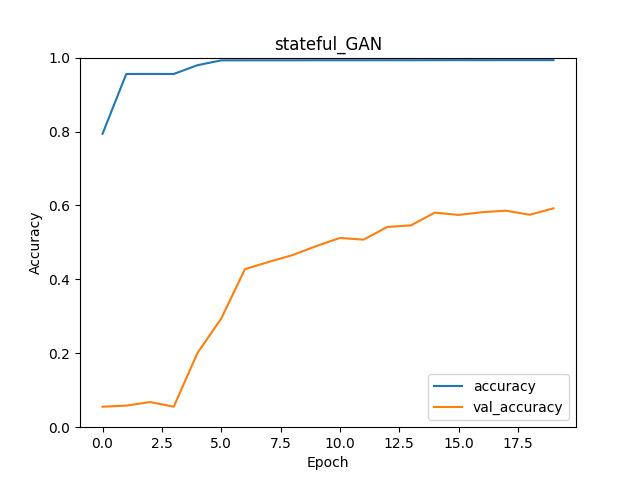
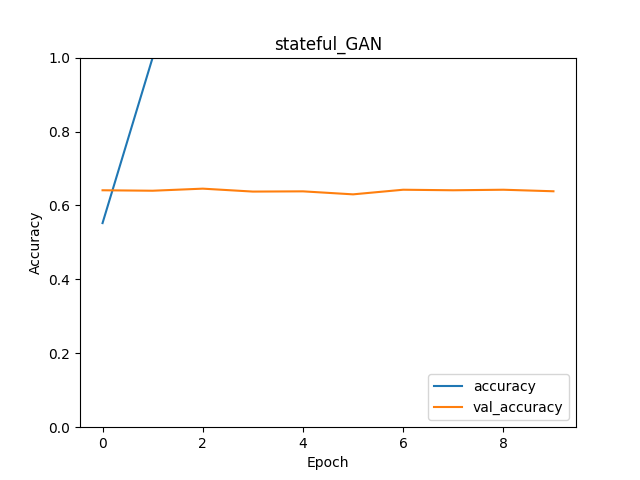
hard sigmoid broke stateful gan---reverted

diff --git a/src/networks/classifiers/binaryCasasClassifier.py b/src/networks/classifiers/binaryCasasClassifier.py
@@ -2,38 +2,34 @@
 import tensorflow as tf
 from tensorflow import keras
 from tensorflow.keras import layers as l
-from pathlib import Path
-import pandas as pd
-import glob
 import numpy as np
 import os
 
-from processData.binaryCasasProcess import binaryCasasData as bcData
+from processData.binaryCasasProcess import binaryCasasData as bcData, postProcess as pp
 from names import binaryCasasNames as bcNames
 from networks import commonBlocks as cBlocks, defaults
 from utils import common, globalVars as gv
-from processData import windowsGenerator as wg
-from networks.gans import stateFulGan as sfg
-from networks.gans import genApi, wgan
+from networks.gans import stateFulGan as sfg, genApi
 import matplotlib.pyplot as plt
-from processData.binaryCasasProcess import postProcess as pp
 
-BATCH_SIZE = 64
+BATCH_SIZE = sfg.BATCH_SIZE
 N_TIME_STEPS = 16
-EPOCHS = 20
+EPOCHS = 10
 PATH_ASSETS = os.getcwd()
+STEPS_PER_EPOCH = 250
 
 def run():
     # trtr("CNN_on_real")
 
-
     # loadGan = True
     loadGan = False
     gan = sfg.get_gan(loadGan)
-    gan = sfg.run_gan(gan, 20)
+    gan = sfg.run_gan(gan, 10)
 
     genOut = []
-    for sampleNum in range(5000):
+    for sampleNum in range(1000):
+        if sampleNum % 500 == 0:
+            print("On sample num {} with batch size {}".format(sampleNum, BATCH_SIZE))
         genOut.append(genApi.get_gen_out(gan.generator, sfg.NOISE_DIM, batchSize=sfg.BATCH_SIZE))
 
     #np.ndarray in shape (samples, time steps, features)
@@ -41,7 +37,8 @@ def run():
     genOut = pp.gen_out_to_real_normalized(genOut)
 
     x,y = genOut[...,:bcNames.nFeatures], genOut[...,-1,bcNames.nFeatures:]
-    print(x.shape, y.shape)
+    print("X and Y shapes:", x.shape, y.shape)
+    print("Doing TSTR")
     tstr(x, y, "stateful_GAN")
 
 def tstr(x, y, title): 
@@ -50,7 +47,7 @@ def tstr(x, y, title):
         xyPivot=bcNames.pivots.activities.start, firstN=gv.DATA_AMT
     )
     model = basic_cnn()
-    history = model.fit(x, y, epochs=EPOCHS, steps_per_epoch = defaults.STEPS_PER_EPOCH,
+    history = model.fit(x, y, epochs=EPOCHS, steps_per_epoch = STEPS_PER_EPOCH,
                         validation_data=allHomes[0].data.test.gen, validation_steps=defaults.VALIDATION_STEPS)
     test_result_0 = model.evaluate(allHomes[0].data.test.gen, steps=defaults.VALIDATION_STEPS, verbose=2)
     test_result_1 = model.evaluate(allHomes[1].data.test.gen, steps=defaults.VALIDATION_STEPS, verbose=2)
@@ -75,7 +72,7 @@ def trtr(title):
         xyPivot=bcNames.pivots.activities.start, firstN=gv.DATA_AMT
     )
     model = basic_cnn()
-    history = model.fit(allHomes[0].data.train.gen, epochs=EPOCHS, steps_per_epoch = defaults.STEPS_PER_EPOCH,
+    history = model.fit(allHomes[0].data.train.gen, epochs=EPOCHS, steps_per_epoch = STEPS_PER_EPOCH,
                         validation_data=allHomes[0].data.test.gen, validation_steps=defaults.VALIDATION_STEPS)
     test_result_0 = model.evaluate(allHomes[0].data.test.gen, steps=defaults.VALIDATION_STEPS, verbose=2)
     test_result_1 = model.evaluate(allHomes[1].data.test.gen, steps=defaults.VALIDATION_STEPS, verbose=2)
@@ -108,4 +105,6 @@ def basic_cnn() -> keras.models.Model:
     return model
 
 if __name__ == "__main__":
+    if gv.DEBUG:
+        common.enable_tf_debug()
     run()

diff --git a/src/networks/gans/stateFulGan.py b/src/networks/gans/stateFulGan.py
@@ -28,10 +28,9 @@ NOISE_DIM = 128
 BATCH_SIZE = 32
 STEPS_PER_EPOCH = 1000
 
+NEPOCHS = 2 if gv.DEBUG else 10
 NPREV_EPOCHS_DONE = 0
-# NPREV_EPOCHS_DONE = 12
-NEPOCHS = 2 if gv.DEBUG else 25
-# NEPOCHS = 0
+# NPREV_EPOCHS_DONE = NEPOCHS
 
 def get_conv_generator() -> keras.models.Model:
     #goal: 16 X 48
@@ -86,11 +85,12 @@ def get_lstm_generator(batchSize=BATCH_SIZE) -> keras.models.Model:
             return_sequences=True
         )
     )(x)
-    time = layers.Dense(1, keras.activations.hard_sigmoid)(x)
+    # time = layers.Dense(1, keras.activations.hard_sigmoid)(x)
+    time = layers.Dense(1, keras.activations.sigmoid)(x)
     signal = layers.Dense(1, keras.activations.sigmoid)(x)
     sensors = layers.Dense(len(bcNames.allSensors), keras.activations.softmax)(x)
-    activities = layers.Dense(bcNames.nLabels, keras.activations.softmax)(x)
-    x = layers.Concatenate()([time, signal, sensors, activities])
+    labels = layers.Dense(bcNames.nLabels, keras.activations.softmax)(x)
+    x = layers.Concatenate()([time, signal, sensors, labels])
 
     model = keras.models.Model(inputs=[inputLayer], outputs=[x], name=LSTM_GENERATOR_NAME)
     # model.compile(loss = keras.losses.CategoricalCrossentropy(),

diff --git a/src/networks/gans/betterBaseGan.py b/src/networks/gans/betterBaseGan.py
@@ -18,7 +18,7 @@ GEN_FILE = KM_FOLDER + GEN_NAME
 NTIMESTEPS = 16
 NOISE_DIM = defaults.NOISE_DIM
 BATCH_SIZE = defaults.BATCH_SIZE
-NEPOCHS = 2 if gv.DEBUG else 10
+NEPOCHS = 10 if gv.DEBUG else 2
 NPREV_EPOCHS_DONE = 0
 
 def get_discriminator(nTimesteps=NTIMESTEPS)->keras.Model:
